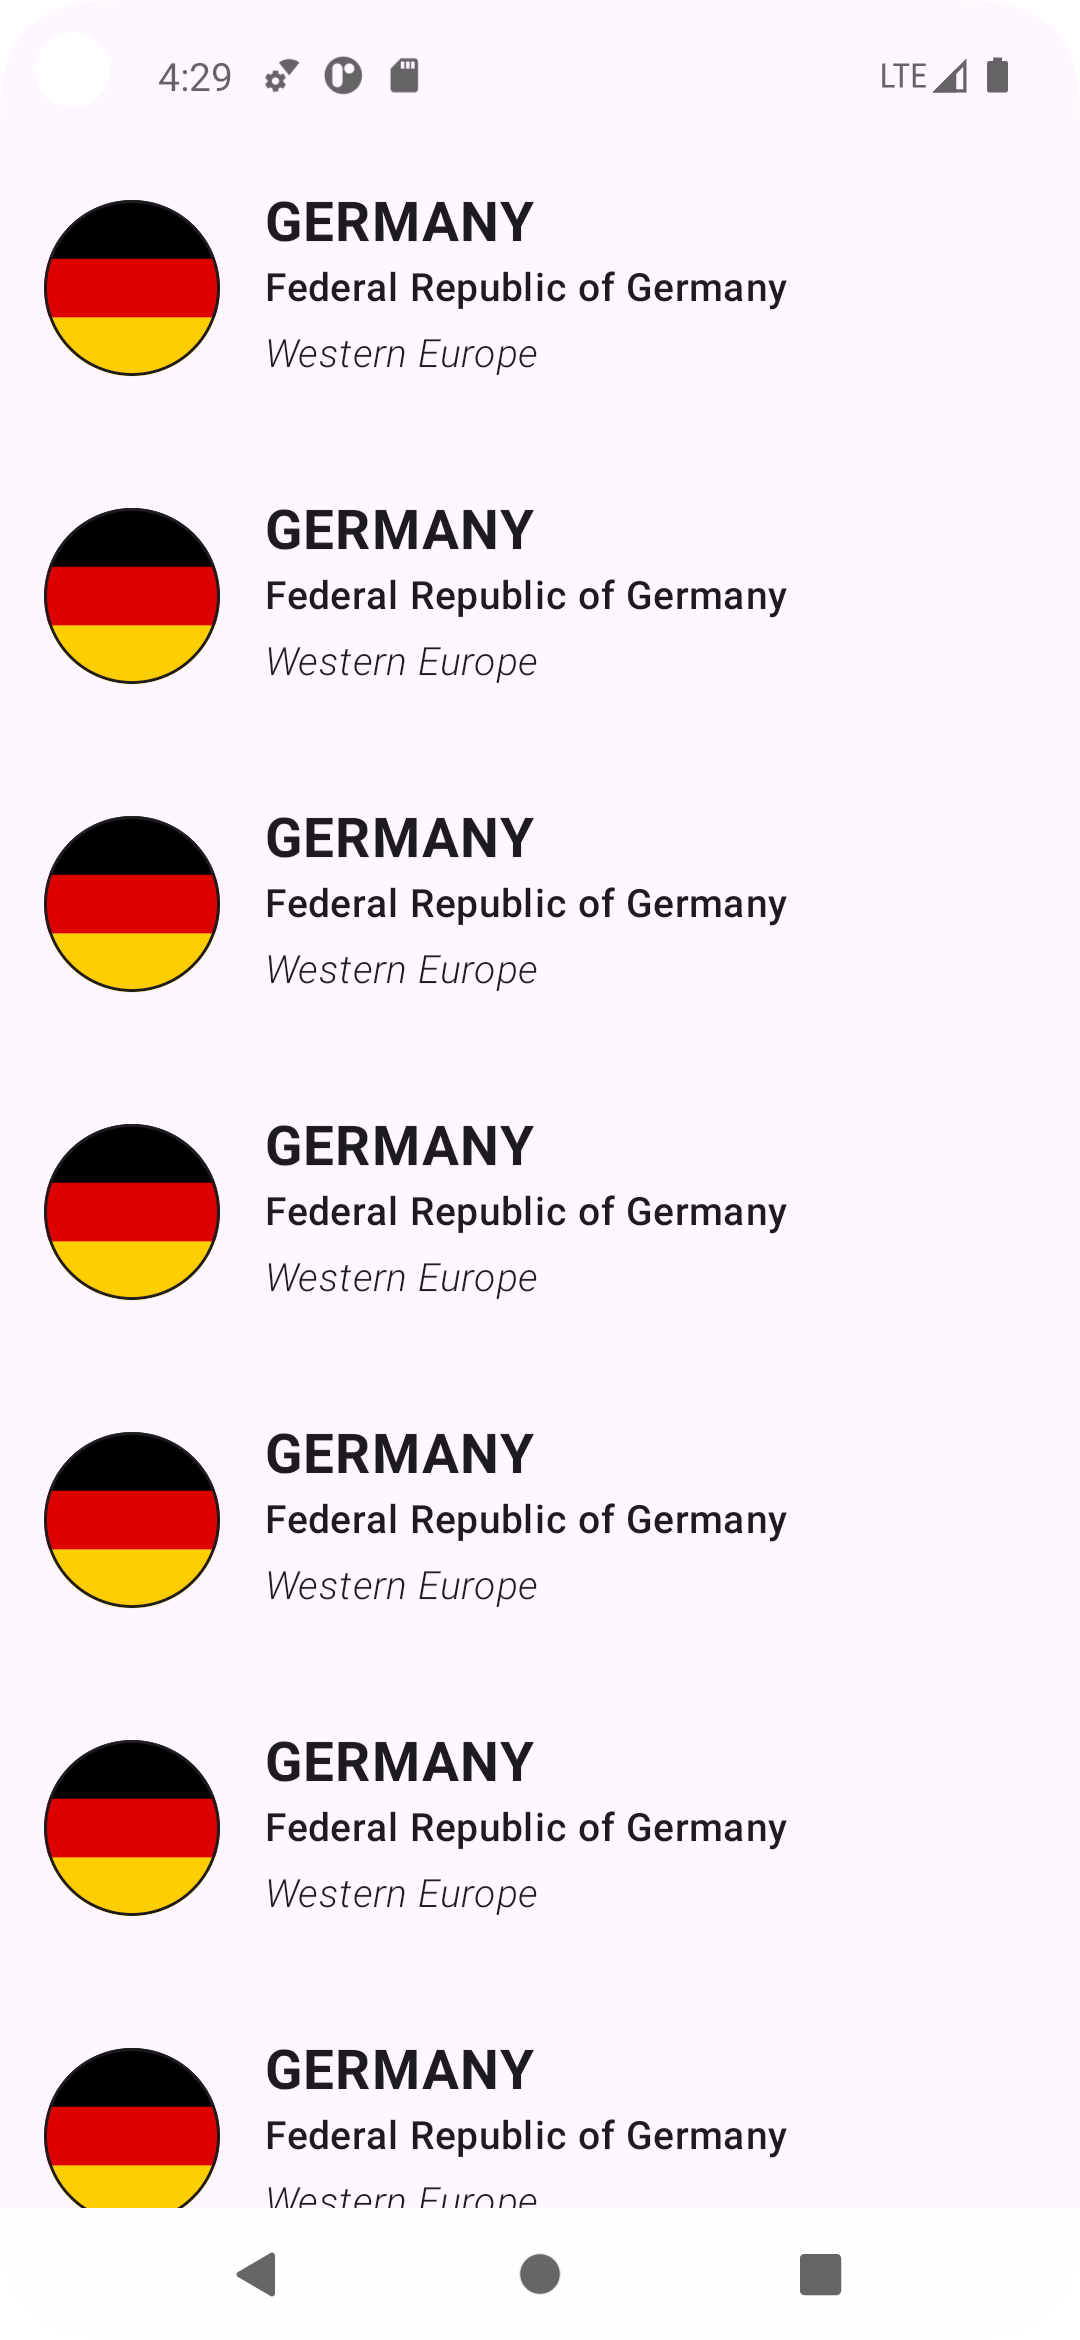
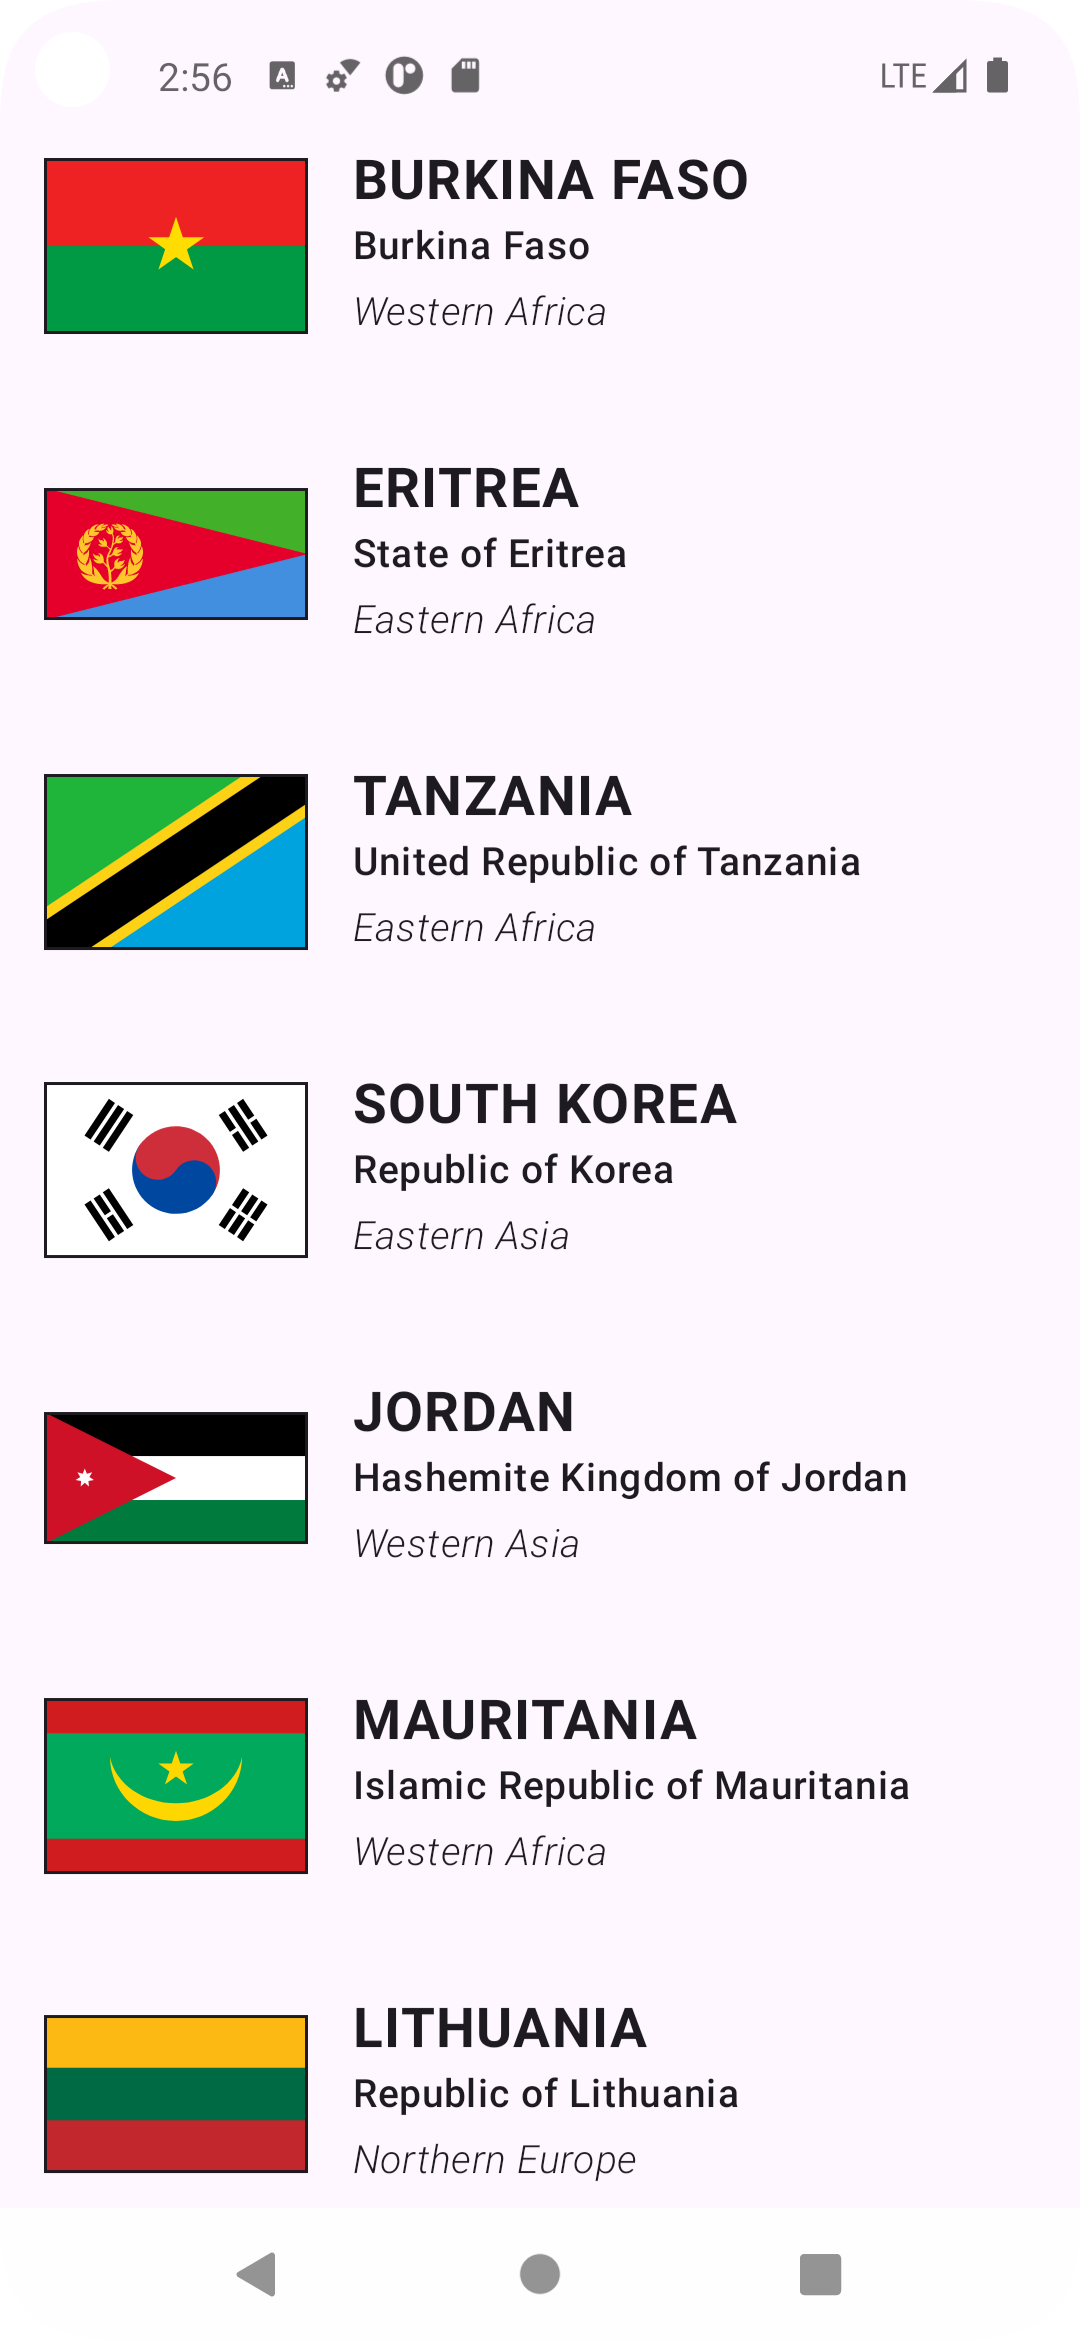
refactor: improve UI and error handling in CountriesListItem
- Adjust CountriesListItem layout to fit all flag elements
- Add toast notifications for network errors
- Update error and loading states for images
- Optimize file structure and organization

diff --git a/app/src/main/java/com/lesa/countries/presentation/countries_list/components/CountriesListItem.kt b/app/src/main/java/com/lesa/countries/presentation/countries_list/components/CountriesListItem.kt
@@ -6,16 +6,15 @@ import androidx.compose.foundation.layout.Arrangement
 import androidx.compose.foundation.layout.Column
 import androidx.compose.foundation.layout.Row
 import androidx.compose.foundation.layout.padding
-import androidx.compose.foundation.layout.size
-import androidx.compose.foundation.shape.CircleShape
-import androidx.compose.material3.CircularProgressIndicator
+import androidx.compose.foundation.layout.width
 import androidx.compose.material3.Icon
+import androidx.compose.material3.LinearProgressIndicator
 import androidx.compose.material3.MaterialTheme
 import androidx.compose.material3.Text
 import androidx.compose.runtime.Composable
 import androidx.compose.ui.Alignment
 import androidx.compose.ui.Modifier
-import androidx.compose.ui.draw.clip
+import androidx.compose.ui.graphics.RectangleShape
 import androidx.compose.ui.layout.ContentScale
 import androidx.compose.ui.res.painterResource
 import androidx.compose.ui.text.font.FontStyle
@@ -23,11 +22,11 @@ import androidx.compose.ui.text.font.FontWeight
 import androidx.compose.ui.tooling.preview.PreviewLightDark
 import androidx.compose.ui.unit.dp
 import coil3.compose.SubcomposeAsyncImage
-import com.lesa.core.presentation.ViewScale
+import com.lesa.core.presentation.util.ViewScale
 import com.lesa.countries.R
-import com.lesa.countries.presentation.countries_list.models.CountryUi
-import com.lesa.countries.presentation.countries_list.models.countryUiSample
-import com.lesa.countries.ui.theme.CountriesTheme
+import com.lesa.countries.presentation.models.CountryUi
+import com.lesa.countries.presentation.models.countryUiSample
+import com.lesa.core.presentation.ui.theme.CountriesTheme
 
 @Composable
 fun CountriesListItem(
@@ -46,24 +45,26 @@ fun CountriesListItem(
             contentDescription = null,
             contentScale = ContentScale.Crop,
             loading = {
-                CircularProgressIndicator()
+                LinearProgressIndicator(
+                    modifier = Modifier
+                        .width(scale.flagWidth)
+                        .padding(8.dp)
+                )
             },
             error = {
                 Icon(
-                    painter = painterResource(R.drawable.sad_face),
+                    painter = painterResource(R.drawable.ic_error),
                     contentDescription = null,
                     tint = MaterialTheme.colorScheme.error
                 )
             },
             modifier = Modifier
-                .size(scale.flagSize)
-                .clip(CircleShape)
+                .width(scale.flagWidth)
                 .border(
                     width = 1.dp,
                     color = MaterialTheme.colorScheme.onBackground,
-                    shape = CircleShape
+                    shape = RectangleShape
                 )
-
         )
         Column {
             Text(
@@ -78,13 +79,15 @@ fun CountriesListItem(
                 fontWeight = FontWeight.Medium,
                 color = MaterialTheme.colorScheme.onBackground,
             )
-            Text(
-                text = countryUi.subregion,
-                fontSize = scale.descriptionTextSize,
-                fontWeight = FontWeight.Light,
-                fontStyle = FontStyle.Italic,
-                color = MaterialTheme.colorScheme.onBackground,
-            )
+            if (!countryUi.subregion.isNullOrBlank()) {
+                Text(
+                    text = countryUi.subregion,
+                    fontSize = scale.descriptionTextSize,
+                    fontWeight = FontWeight.Light,
+                    fontStyle = FontStyle.Italic,
+                    color = MaterialTheme.colorScheme.onBackground,
+                )
+            }
         }
     }
 }

diff --git a/app/src/main/java/com/lesa/MainActivity.kt b/app/src/main/java/com/lesa/MainActivity.kt
@@ -1,6 +1,7 @@
 package com.lesa
 
 import android.os.Bundle
+import android.widget.Toast
 import androidx.activity.ComponentActivity
 import androidx.activity.compose.setContent
 import androidx.activity.enableEdgeToEdge
@@ -9,10 +10,14 @@ import androidx.compose.foundation.layout.padding
 import androidx.compose.material3.Scaffold
 import androidx.compose.runtime.getValue
 import androidx.compose.ui.Modifier
+import androidx.compose.ui.platform.LocalContext
 import androidx.lifecycle.compose.collectAsStateWithLifecycle
+import com.lesa.core.presentation.util.ObserveAsEvents
+import com.lesa.core.presentation.util.toString
+import com.lesa.countries.presentation.countries_list.CountriesListEvent
 import com.lesa.countries.presentation.countries_list.CountriesListScreen
 import com.lesa.countries.presentation.countries_list.CountriesListViewModel
-import com.lesa.countries.ui.theme.CountriesTheme
+import com.lesa.core.presentation.ui.theme.CountriesTheme
 import org.koin.androidx.compose.koinViewModel
 
 class MainActivity : ComponentActivity() {
@@ -24,6 +29,18 @@ class MainActivity : ComponentActivity() {
                 Scaffold(modifier = Modifier.fillMaxSize()) { innerPadding ->
                     val viewModel = koinViewModel<CountriesListViewModel>()
                     val state by viewModel.state.collectAsStateWithLifecycle()
+                    val context = LocalContext.current
+                    ObserveAsEvents(events = viewModel.events) { event ->
+                        when(event) {
+                            is CountriesListEvent.ErrorEvent -> {
+                                Toast.makeText(
+                                    context,
+                                    event.error.toString(context),
+                                    Toast.LENGTH_LONG
+                                ).show()
+                            }
+                        }
+                    }
 
                     CountriesListScreen(
                         state = state,

diff --git a/app/src/main/java/com/lesa/countries/presentation/countries_list/CountriesListViewModel.kt b/app/src/main/java/com/lesa/countries/presentation/countries_list/CountriesListViewModel.kt
@@ -5,10 +5,12 @@ import androidx.lifecycle.viewModelScope
 import com.lesa.core.domain.util.onError
 import com.lesa.core.domain.util.onSuccess
 import com.lesa.countries.domain.CountryDataSource
-import com.lesa.countries.presentation.countries_list.models.toCountryUi
+import com.lesa.countries.presentation.models.toCountryUi
+import kotlinx.coroutines.channels.Channel
 import kotlinx.coroutines.flow.MutableStateFlow
 import kotlinx.coroutines.flow.SharingStarted
 import kotlinx.coroutines.flow.onStart
+import kotlinx.coroutines.flow.receiveAsFlow
 import kotlinx.coroutines.flow.stateIn
 import kotlinx.coroutines.flow.update
 import kotlinx.coroutines.launch
@@ -24,6 +26,9 @@ class CountriesListViewModel(
             started = SharingStarted.WhileSubscribed(5000),
             initialValue = CountriesListState()
         )
+
+    private val _events = Channel<CountriesListEvent>()
+    val events = _events.receiveAsFlow()
 
     private fun loadCountries() {
         viewModelScope.launch {
@@ -42,12 +47,13 @@ class CountriesListViewModel(
                         )
                     }
                 }
-                .onError {
+                .onError { error ->
                     _state.update { state ->
                         state.copy(
                             isLoading = false,
                         )
                     }
+                    _events.send(CountriesListEvent.ErrorEvent(error = error))
                 }
         }
     }

diff --git a/app/src/main/java/com/lesa/core/presentation/util/ViewScale.kt b/app/src/main/java/com/lesa/core/presentation/util/ViewScale.kt
@@ -1,4 +1,4 @@
-package com.lesa.core.presentation
+package com.lesa.core.presentation.util
 
 import androidx.compose.ui.unit.Dp
 import androidx.compose.ui.unit.TextUnit
@@ -6,23 +6,23 @@ import androidx.compose.ui.unit.dp
 import androidx.compose.ui.unit.sp
 
 enum class ViewScale(
-    val flagSize: Dp,
+    val flagWidth: Dp,
     val titleTextSize: TextUnit,
     val descriptionTextSize: TextUnit,
 ) {
     LARGE(
-        flagSize = 96.dp,
+        flagWidth = 128.dp,
         titleTextSize = 24.sp,
         descriptionTextSize = 16.sp,
     ),
     MEDIUM(
-        flagSize = 64.dp,
+        flagWidth = 96.dp,
         titleTextSize = 20.sp,
         descriptionTextSize = 14.sp,
     ),
     SMALL(
-        flagSize = 48.dp,
-        titleTextSize = 16.sp,
+        flagWidth = 80.dp,
+        titleTextSize = 14.sp,
         descriptionTextSize = 12.sp,
     ),
 }

diff --git a/app/src/main/java/com/lesa/core/presentation/util/ObserveAsEvents.kt b/app/src/main/java/com/lesa/core/presentation/util/ObserveAsEvents.kt
@@ -1,0 +1,27 @@
+package com.lesa.core.presentation.util
+
+import androidx.compose.runtime.Composable
+import androidx.compose.runtime.LaunchedEffect
+import androidx.lifecycle.Lifecycle
+import androidx.lifecycle.compose.LocalLifecycleOwner
+import androidx.lifecycle.repeatOnLifecycle
+import kotlinx.coroutines.Dispatchers
+import kotlinx.coroutines.flow.Flow
+import kotlinx.coroutines.withContext
+
+@Composable
+fun <T> ObserveAsEvents(
+    events: Flow<T>,
+    key1: Any? = null,
+    key2: Any? = null,
+    onEvent: (T) -> Unit
+) {
+    val lifecycleOwner = LocalLifecycleOwner.current
+    LaunchedEffect(lifecycleOwner.lifecycle, key1, key2) {
+        lifecycleOwner.repeatOnLifecycle(Lifecycle.State.STARTED) {
+            withContext(Dispatchers.Main.immediate) {
+                events.collect(onEvent)
+            }
+        }
+    }
+}

diff --git a/app/src/main/java/com/lesa/countries/data/network/RemoteCountryDataSource.kt b/app/src/main/java/com/lesa/countries/data/network/RemoteCountryDataSource.kt
@@ -2,7 +2,7 @@ package com.lesa.countries.data.network
 
 import com.lesa.core.data.network.constructUrl
 import com.lesa.core.data.network.safeCall
-import com.lesa.core.domain.util.Error
+import com.lesa.core.domain.util.NetworkError
 import com.lesa.core.domain.util.Result
 import com.lesa.core.domain.util.map
 import com.lesa.countries.data.network.dto.CountryDto
@@ -15,7 +15,7 @@ import io.ktor.client.request.get
 class RemoteCountryDataSource(
     private val httpClient: HttpClient,
 ) : CountryDataSource {
-    override suspend fun getCountries(): Result<List<Country>, Error> {
+    override suspend fun getCountries(): Result<List<Country>, NetworkError> {
         return safeCall<List<CountryDto>> {
             httpClient.get(
                 urlString = constructUrl(url = "all")

diff --git a/app/src/main/java/com/lesa/core/presentation/util/NetworkErrorToString.kt b/app/src/main/java/com/lesa/core/presentation/util/NetworkErrorToString.kt
@@ -1,0 +1,17 @@
+package com.lesa.core.presentation.util
+
+import android.content.Context
+import com.lesa.core.domain.util.NetworkError
+import com.lesa.countries.R
+
+fun NetworkError.toString(context: Context): String {
+    val resId = when (this) {
+        NetworkError.NO_INTERNET_CONNECTION -> R.string.error_no_internet_connection
+        NetworkError.REQUEST_TIMEOUT -> R.string.error_request_timeout
+        NetworkError.SERIALIZATION_ERROR -> R.string.error_serialization_error
+        NetworkError.SERVER_ERROR -> R.string.error_server_error
+        NetworkError.TOO_MANY_REQUESTS -> R.string.error_too_many_requests
+        NetworkError.UNKNOWN_ERROR -> R.string.error_unknown_error
+    }
+    return context.getString(resId)
+}

diff --git a/app/src/main/java/com/lesa/countries/presentation/models/CountryUi.kt b/app/src/main/java/com/lesa/countries/presentation/models/CountryUi.kt
@@ -1,4 +1,4 @@
-package com.lesa.countries.presentation.countries_list.models
+package com.lesa.countries.presentation.models
 
 import com.lesa.countries.domain.models.Country
 
@@ -7,7 +7,7 @@ data class CountryUi(
     val officialName: String,
     val capital: String,
     val region: String,
-    val subregion: String,
+    val subregion: String? = null,
     val flagEmoji: String,
     val flagSvgUrl: String? = null,
 )
@@ -18,7 +18,7 @@ fun Country.toCountryUi(): CountryUi {
         officialName = officialName,
         capital = capital?.firstOrNull() ?: "",
         region = region,
-        subregion = subregion ?: "",
+        subregion = subregion,
         flagEmoji = flagEmoji,
         flagSvgUrl = flagSvgUrl
     )

diff --git a/app/src/main/java/com/lesa/countries/presentation/countries_list/CountriesListScreen.kt b/app/src/main/java/com/lesa/countries/presentation/countries_list/CountriesListScreen.kt
@@ -15,8 +15,8 @@ import androidx.compose.ui.Modifier
 import androidx.compose.ui.tooling.preview.PreviewLightDark
 import androidx.compose.ui.unit.dp
 import com.lesa.countries.presentation.countries_list.components.CountriesListItem
-import com.lesa.countries.presentation.countries_list.models.countriesUiSample
-import com.lesa.countries.ui.theme.CountriesTheme
+import com.lesa.countries.presentation.models.countriesUiSample
+import com.lesa.core.presentation.ui.theme.CountriesTheme
 
 @Composable
 fun CountriesListScreen(

diff --git a/app/src/main/java/com/lesa/countries/domain/CountryDataSource.kt b/app/src/main/java/com/lesa/countries/domain/CountryDataSource.kt
@@ -1,9 +1,9 @@
 package com.lesa.countries.domain
 
-import com.lesa.core.domain.util.Error
+import com.lesa.core.domain.util.NetworkError
 import com.lesa.core.domain.util.Result
 import com.lesa.countries.domain.models.Country
 
 interface CountryDataSource {
-    suspend fun getCountries(): Result<List<Country>, Error>
+    suspend fun getCountries(): Result<List<Country>, NetworkError>
 }

diff --git a/app/src/main/java/com/lesa/countries/presentation/countries_list/CountriesListState.kt b/app/src/main/java/com/lesa/countries/presentation/countries_list/CountriesListState.kt
@@ -1,7 +1,7 @@
 package com.lesa.countries.presentation.countries_list
 
 import androidx.compose.runtime.Immutable
-import com.lesa.countries.presentation.countries_list.models.CountryUi
+import com.lesa.countries.presentation.models.CountryUi
 
 @Immutable
 data class CountriesListState(

diff --git a/app/src/main/java/com/lesa/countries/presentation/countries_list/CountriesListEvent.kt b/app/src/main/java/com/lesa/countries/presentation/countries_list/CountriesListEvent.kt
@@ -1,0 +1,7 @@
+package com.lesa.countries.presentation.countries_list
+
+import com.lesa.core.domain.util.NetworkError
+
+sealed interface CountriesListEvent {
+    data class ErrorEvent(val error: NetworkError): CountriesListEvent
+}
